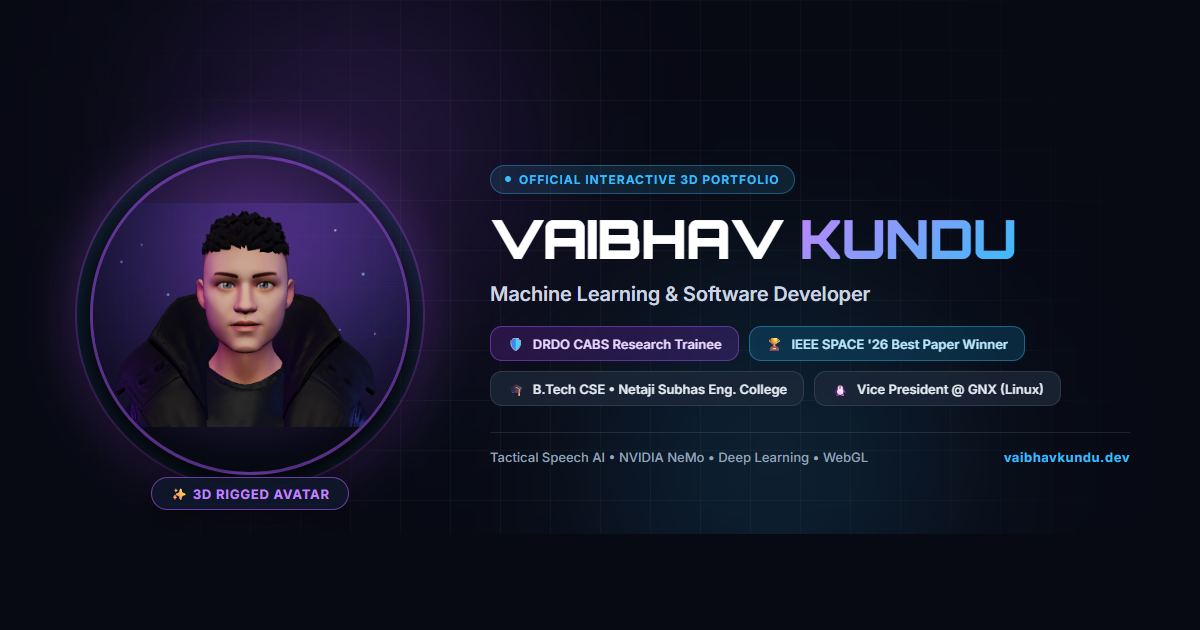
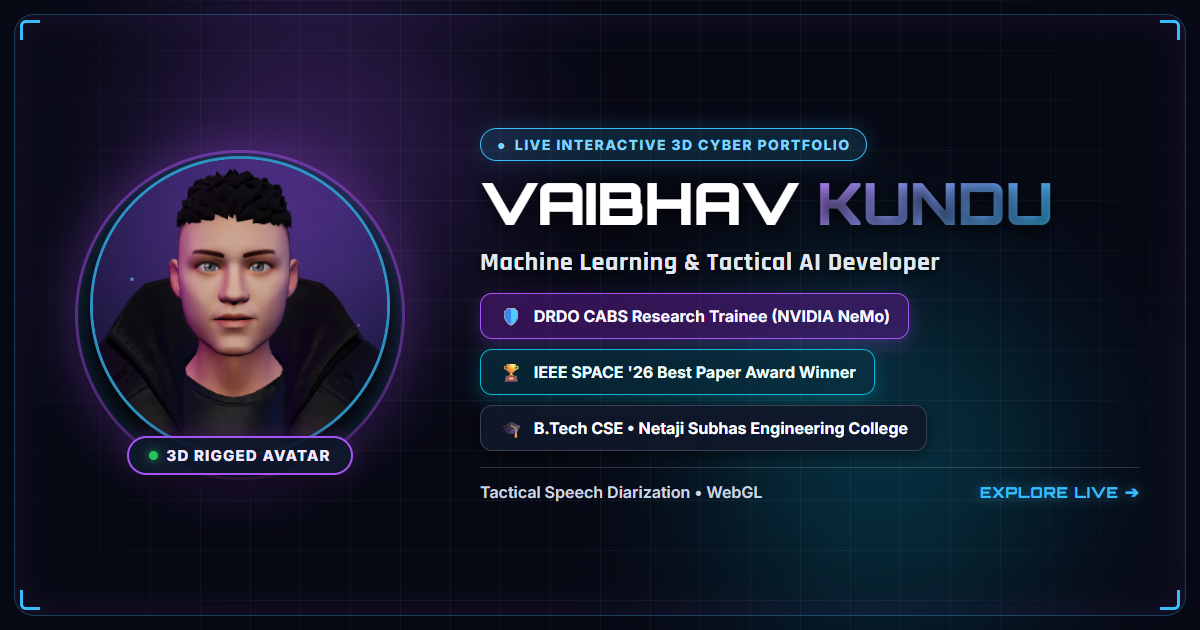
feat(seo): upgrade social share card to ultra-sharp high-contrast design v2

diff --git a/index.html b/index.html
@@ -15,8 +15,8 @@
     <meta property="og:url" content="https://3d-interactive-portfolio-vaibhavkundu.vercel.app/" />
     <meta property="og:title" content="Vaibhav Kundu — 3D Cyber Portfolio | ML & Software Developer" />
     <meta property="og:description" content="Machine Learning Developer & DRDO CABS Research Trainee. Co-author & winner of IEEE SPACE 2026 Best Paper Award. Experience the live 3D avatar voiceover and tactical AI research." />
-    <meta property="og:image" content="https://3d-interactive-portfolio-vaibhavkundu.vercel.app/og-image.png" />
-    <meta property="og:image:secure_url" content="https://3d-interactive-portfolio-vaibhavkundu.vercel.app/og-image.png" />
+    <meta property="og:image" content="https://3d-interactive-portfolio-vaibhavkundu.vercel.app/og-image.png?v=2" />
+    <meta property="og:image:secure_url" content="https://3d-interactive-portfolio-vaibhavkundu.vercel.app/og-image.png?v=2" />
     <meta property="og:image:type" content="image/png" />
     <meta property="og:image:width" content="1200" />
     <meta property="og:image:height" content="630" />
@@ -27,7 +27,7 @@
     <meta name="twitter:card" content="summary_large_image" />
     <meta name="twitter:title" content="Vaibhav Kundu — 3D Cyber Portfolio | ML & Software Developer" />
     <meta name="twitter:description" content="Machine Learning Developer & DRDO CABS Research Trainee. Winner of IEEE SPACE 2026 Best Paper Award. Explore interactive 3D speech AI." />
-    <meta name="twitter:image" content="https://3d-interactive-portfolio-vaibhavkundu.vercel.app/og-image.png" />
+    <meta name="twitter:image" content="https://3d-interactive-portfolio-vaibhavkundu.vercel.app/og-image.png?v=2" />
 
     <link rel="preconnect" href="https://fonts.googleapis.com">
     <link rel="preconnect" href="https://fonts.gstatic.com" crossorigin>
